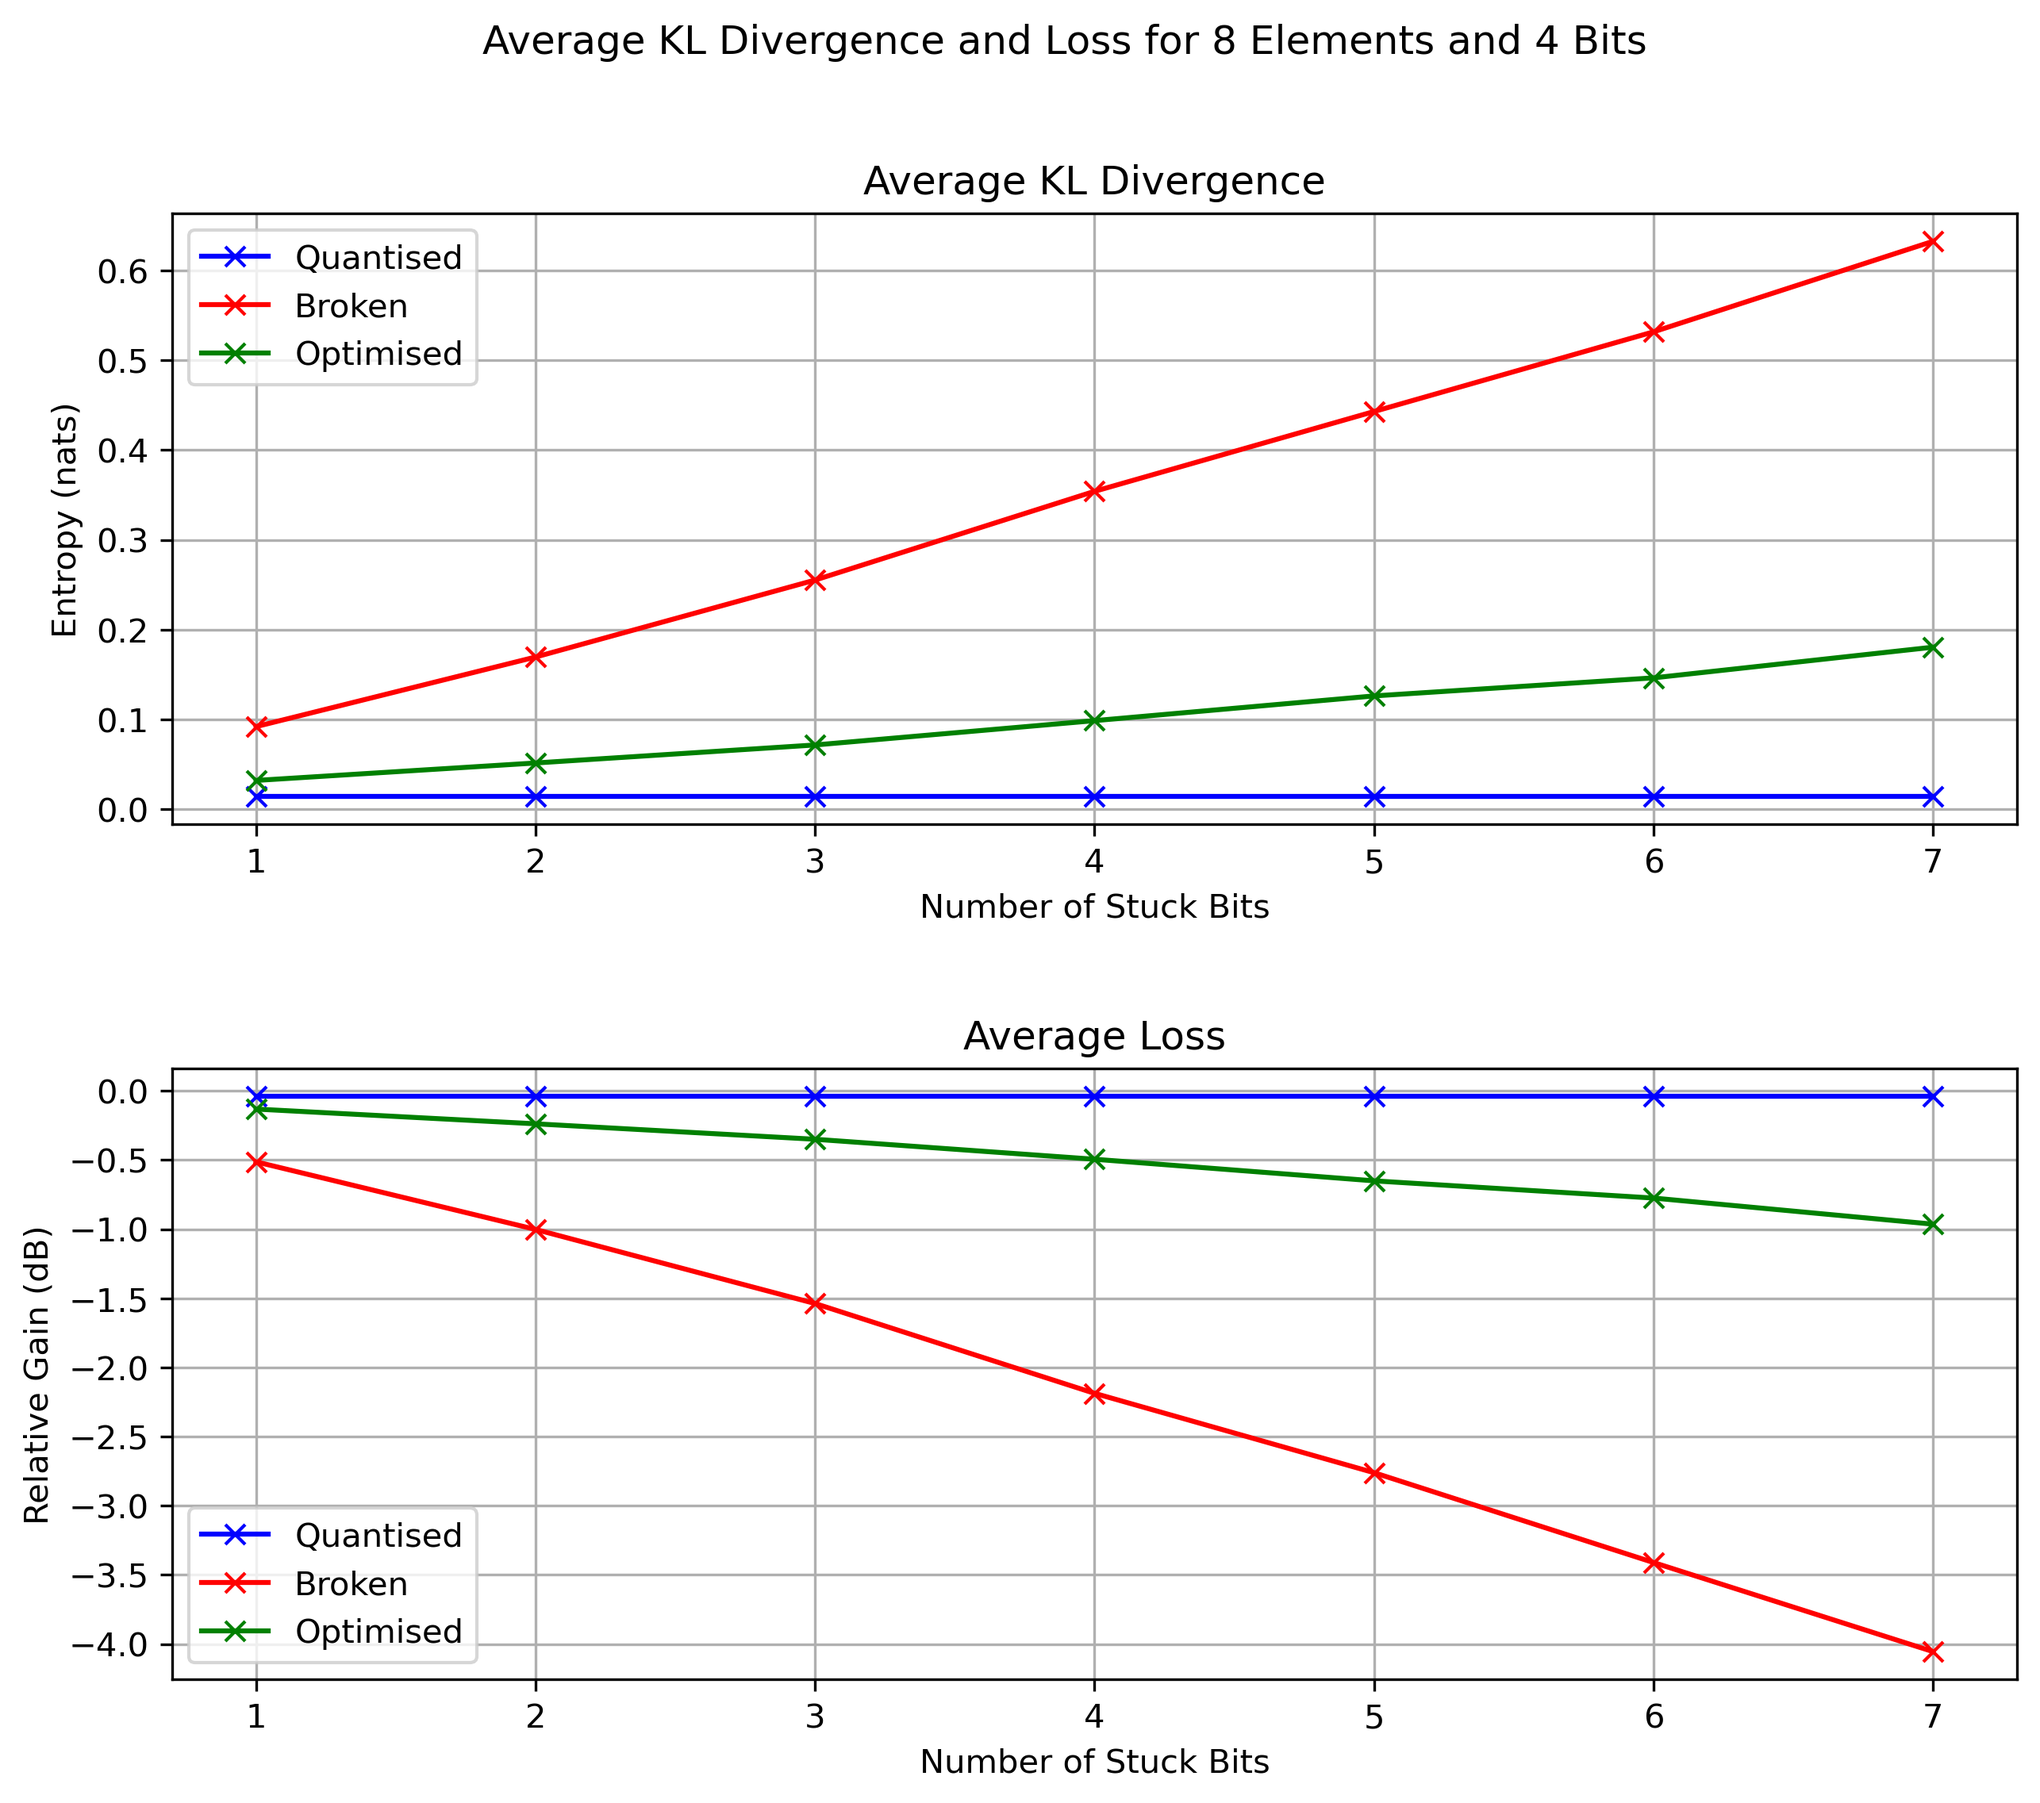
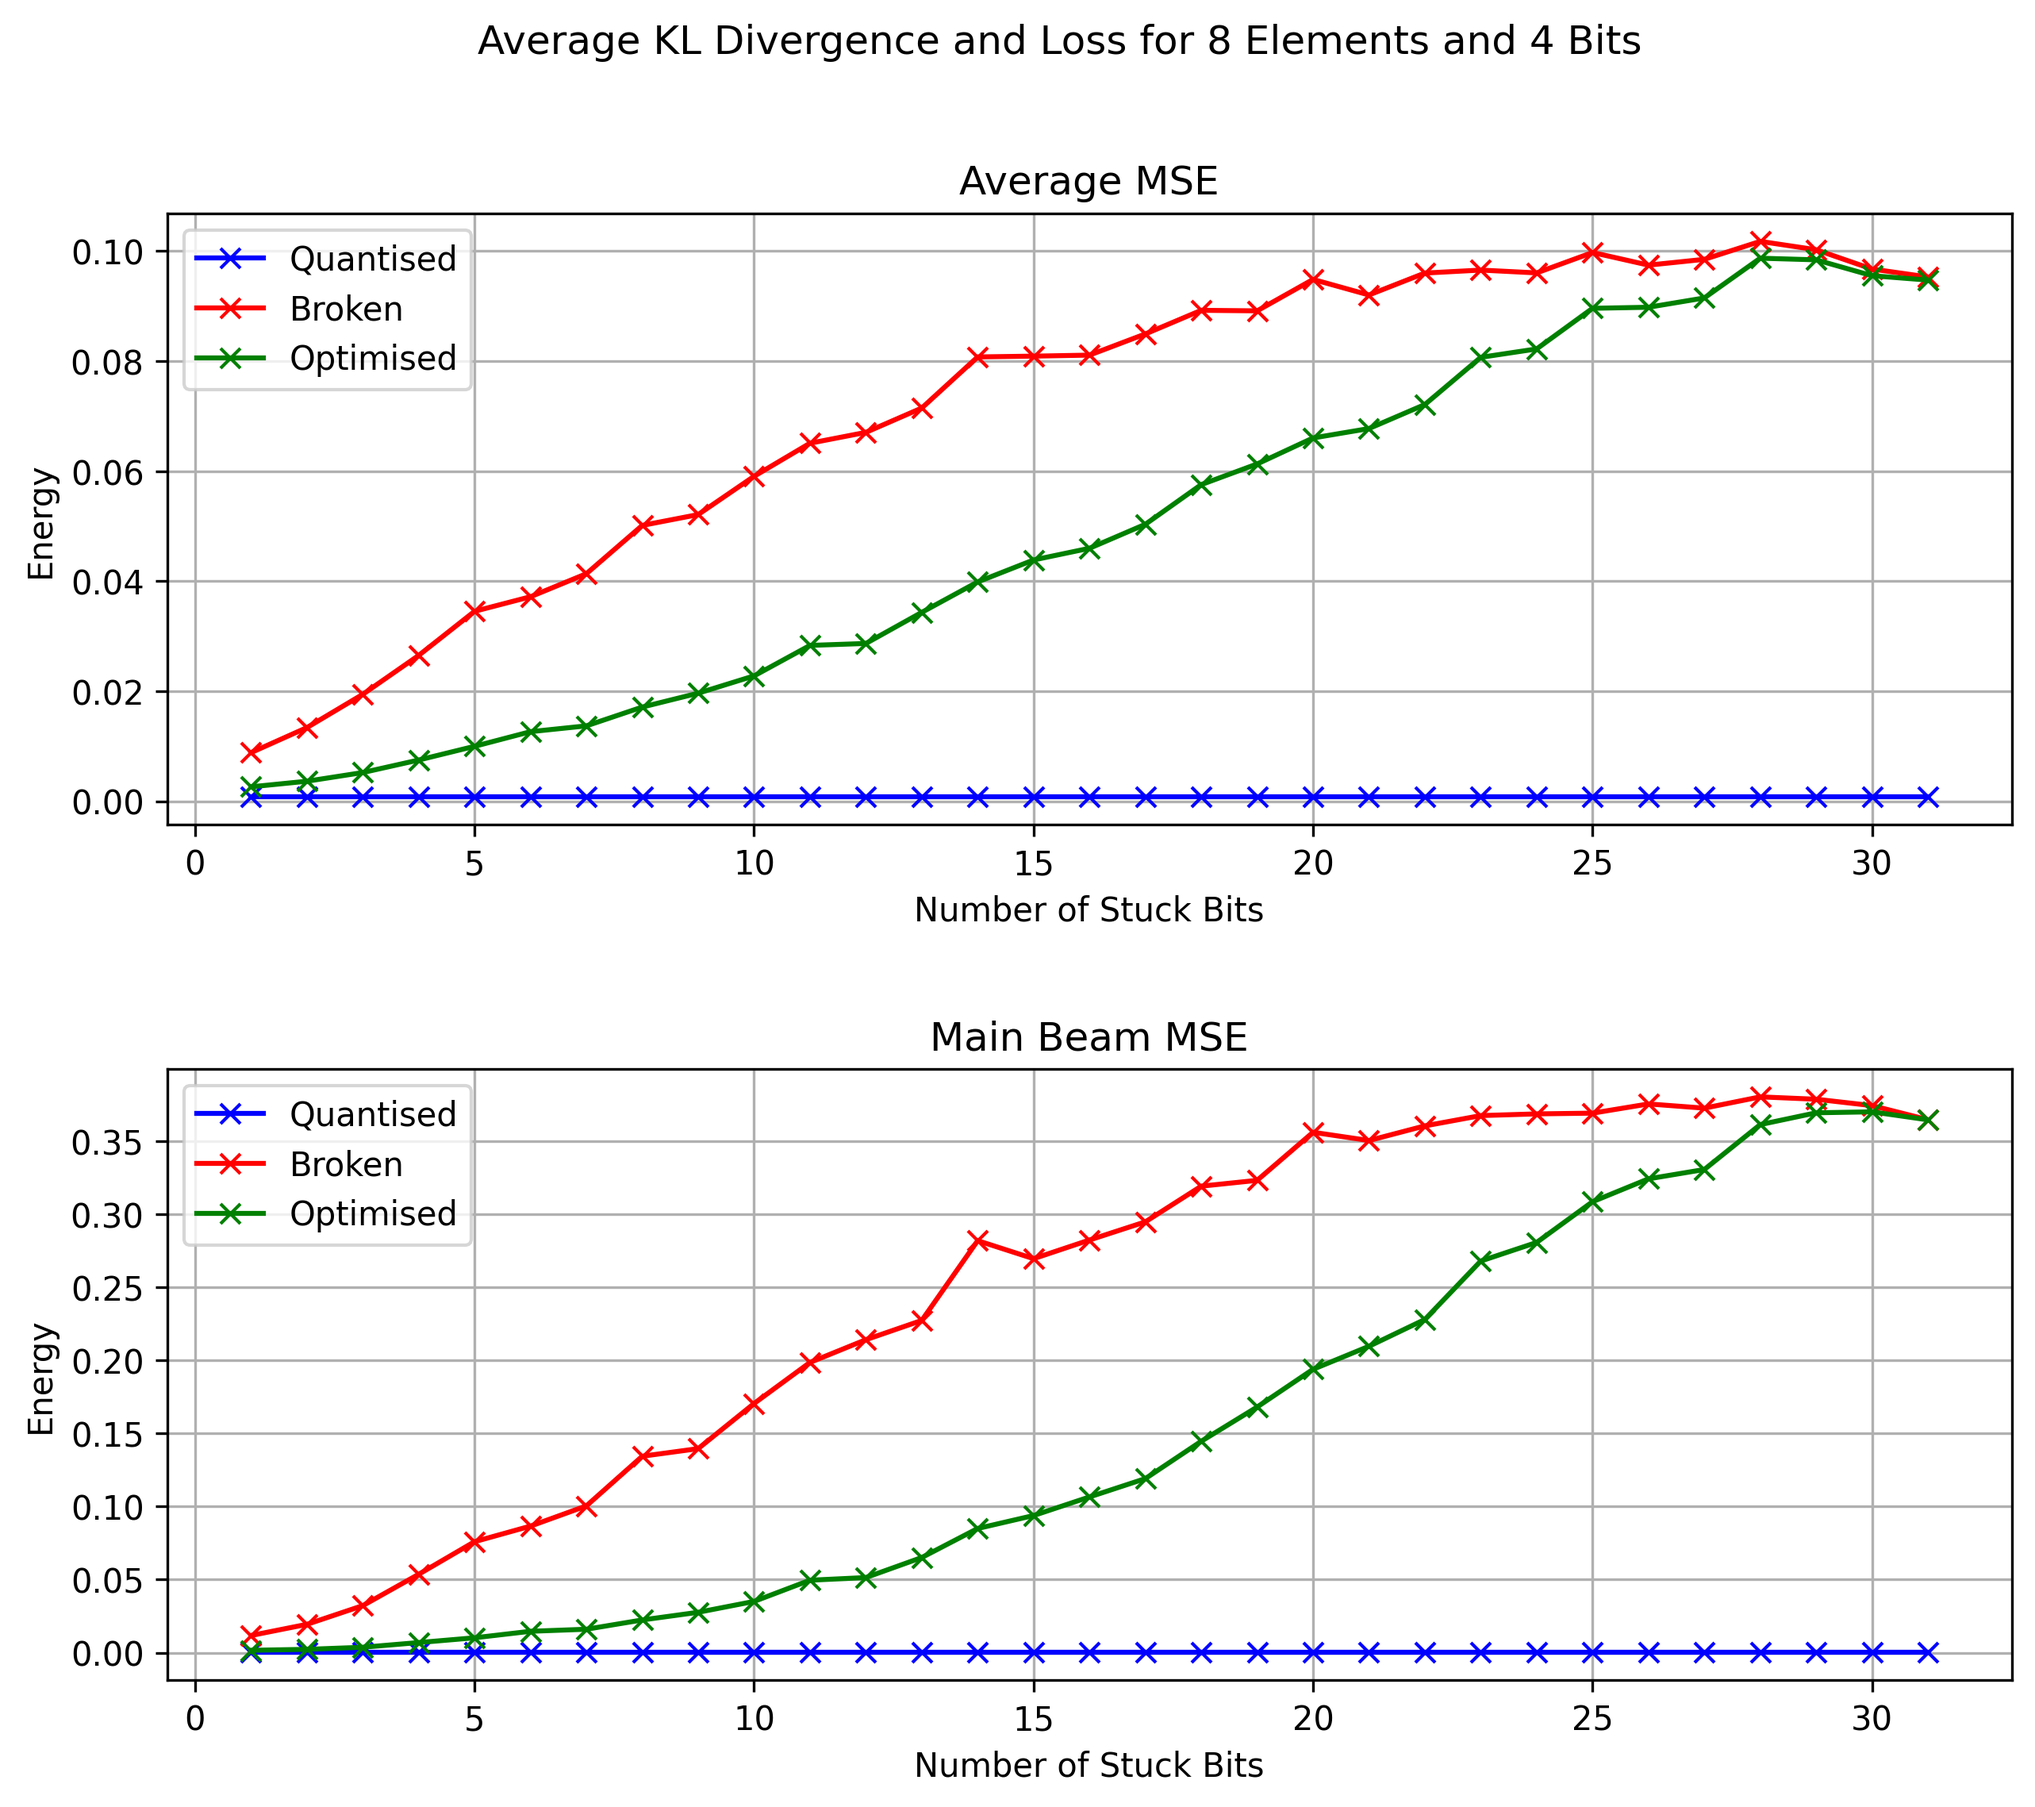
regular backup

diff --git a/sim3_eval.py b/sim3_eval.py
@@ -13,6 +13,7 @@ n_bits = 4  # Number of bits per element
 #n_stuck = 3  # Number of bits stuck (0 or 1)
 scan_deg = np.arange(-90, 91)  # Scan angles from -90° to +90° in degrees
 scan_rad = np.radians(scan_deg)  # Scan angles from -90° to +90° in radians
+beamwidth = 14.3 # in degrees
 
 def average_losses(n_elements=8, n_bits=4, n_stuck=3, trials=100):
     # for every trial, randomly select n_broken_bits bits to be stuck, then calculate the average KL_divergence over all steering angles
@@ -30,7 +31,7 @@ def average_losses(n_elements=8, n_bits=4, n_stuck=3, trials=100):
         loss_quant_list = []
         loss_broken_list = []
         loss_optim_list = []
-        for steering_angle_deg in range(-90, 91):
+        for steering_angle_deg in range(-60, 61):
             steering_angle_rad = np.radians(steering_angle_deg)
             # Calculate all the array factors and KL_divergences
             ideal_phase_list = au.ideal_phase_list(n_elements, steering_angle_rad)
@@ -44,9 +45,12 @@ def average_losses(n_elements=8, n_bits=4, n_stuck=3, trials=100):
             optim_phase_list = au.bit_array_to_phase_list(optim_bit_array)
             af2 = au.phase_list_to_af_list(broken_phase_list, scan_rad)
             af_optim = au.phase_list_to_af_list(optim_phase_list, scan_rad)
-            kl01 = au.kl_divergence(af0, af1)
-            kl02 = au.kl_divergence(af0, af2)
-            kl_optim = au.kl_divergence(af0, af_optim)
+            #kl01 = au.kl_divergence(af0, af1)
+            #kl02 = au.kl_divergence(af0, af2)
+            #kl_optim = au.kl_divergence(af0, af_optim)
+            kl01 = au.MSE(af0, af1)
+            kl02 = au.MSE(af0, af2)
+            kl_optim = au.MSE(af0, af_optim)
 
             # dB scale
             af0_dB = au.amplitude_to_dB_list(af0)
@@ -55,10 +59,13 @@ def average_losses(n_elements=8, n_bits=4, n_stuck=3, trials=100):
             af_optim_dB = au.amplitude_to_dB_list(af_optim)
 
             # losses at the steering angle
-            angle_index = np.where(scan_deg == steering_angle_deg)[0][0]
-            loss01 = af1_dB[angle_index] - af0_dB[angle_index]
-            loss02 = af2_dB[angle_index] - af0_dB[angle_index]
-            loss_optim = af_optim_dB[angle_index] - af0_dB[angle_index]
+            angle_index = np.where((scan_deg >= steering_angle_deg - beamwidth/2.0) & (scan_deg <= steering_angle_deg + beamwidth/2.0))[0]
+            #loss01 = af1_dB[angle_index] - af0_dB[angle_index]
+            #loss02 = af2_dB[angle_index] - af0_dB[angle_index]
+            #loss_optim = af_optim_dB[angle_index] - af0_dB[angle_index]
+            loss01 = au.MSE(af0[angle_index], af1[angle_index])
+            loss02 = au.MSE(af0[angle_index], af2[angle_index])
+            loss_optim = au.MSE(af0[angle_index], af_optim[angle_index])
 
             KL_quant_list.append(kl01)
             KL_broken_list.append(kl02)
@@ -87,8 +94,8 @@ def average_losses(n_elements=8, n_bits=4, n_stuck=3, trials=100):
 
 
 # --- Main function ---
-n_bits_broken_list = np.arange(1, 8)
-n_trials = 100
+n_bits_broken_list = np.arange(1, 32)
+n_trials = 50
 avg_KL_quantised_list = []
 avg_loss_quantised_list = []
 avg_KL_broken_list = []
@@ -112,17 +119,17 @@ fig.subplots_adjust(hspace=0.4)  # Adjust space between subplots
 axs[0].plot(n_bits_broken_list, avg_KL_quantised_list, label='Quantised', marker='x', color='blue')
 axs[0].plot(n_bits_broken_list, avg_KL_broken_list, label='Broken', marker='x', color='red')
 axs[0].plot(n_bits_broken_list, avg_KL_optim_list, label='Optimised', marker='x', color='green')
-axs[0].set_title('Average KL Divergence')
+axs[0].set_title('Average MSE')
 axs[0].set_xlabel('Number of Stuck Bits')
-axs[0].set_ylabel('Entropy (nats)')
+axs[0].set_ylabel('Energy')
 axs[0].legend()
 axs[0].grid()
 axs[1].plot(n_bits_broken_list, avg_loss_quantised_list, label='Quantised', marker='x', color='blue')
 axs[1].plot(n_bits_broken_list, avg_loss_broken_list, label='Broken', marker='x', color='red')
 axs[1].plot(n_bits_broken_list, avg_loss_optim_list, label='Optimised', marker='x', color='green')
-axs[1].set_title('Average Loss')
+axs[1].set_title('Main Beam MSE')
 axs[1].set_xlabel('Number of Stuck Bits')
-axs[1].set_ylabel('Relative Gain (dB)')
+axs[1].set_ylabel('Energy')
 axs[1].legend()
 axs[1].grid()
 # Save the figure
